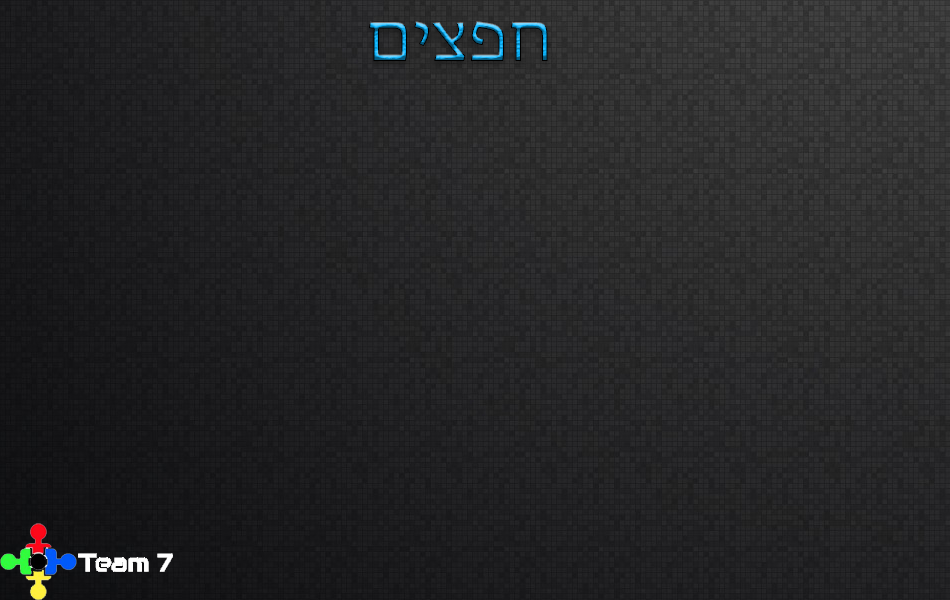
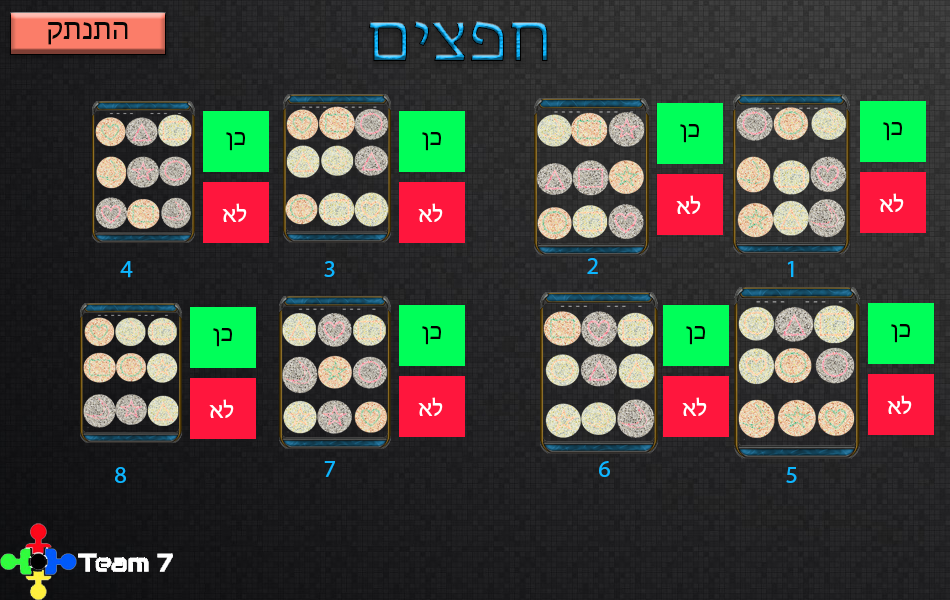
Add more gui הגדרת כל סיפורי המשתמש

diff --git a/Main.py b/Main.py
@@ -1,10 +1,12 @@
+import time
+
 import pygame
 import random
 import excelfunc
 import cardandcube
 from pygame.locals import *
 import pygame_textinput
-
+import Admin_user_edit
 # Define some colors
 BLACK = (0, 0, 0)
 WHITE = (255, 255, 255)
@@ -46,6 +48,7 @@ baduser=False
 subScreen_num = 0 #screen 3 helper
 pygame.display.set_caption("Collind")
 pos=0
+pos1=0
 cardenable=False
 cubeenable=False
 card_image=None
@@ -53,6 +56,7 @@ cube_image=None
 cubenum=0
 cardnum=0
 pauseenable=False
+usersenable =False
 # functions
 
 # Loop until the user clicks the close button.
@@ -76,6 +80,8 @@ while not done:
     badpassword_image = pygame.image.load("WorngPassword.png").convert()
     baduser_image = pygame.image.load("WorngUserName.png").convert()
     pause_image = pygame.image.load("pause.png").convert()
+    users_image = pygame.image.load("users.png").convert()
+    items_image = pygame.image.load("items.png").convert()
     screen.blit(background_image, [0, 0])
     # --- Drawing code should go here
     if screen_Num == 0: #login page
@@ -155,26 +161,130 @@ while not done:
       tempscreen = 1
       manager_image=pygame.image.load("ManagerMain.png").convert()
       screen.blit(manager_image, [0, 0])
+      if(usersenable):
+          screen.blit(users_image, [0, 0])
+          screen_Num=8
       if event.type == pygame.MOUSEBUTTONUP:
        pos = pygame.mouse.get_pos()
       if(pos):
        print(pos)
           #items
-       if((pos[0]>675 and pos[0]<855) and (pos[1]>220 and pos[1]<296) and pygame.mouse.get_pressed()[0]):
-
+       if((pos[0]>675 and pos[0]<855) and (pos[1]>220 and pos[1]<296)):
+           screen_Num=10
+           print("items")
            #users
        if ((pos[0] > 440 and pos[0] < 620) and (pos[1] > 220 and pos[1] < 296) and pygame.mouse.get_pressed()[0]):
+           usersenable=True
            #reports
        if ((pos[0] > 170 and pos[0] < 349) and (pos[1] > 220 and pos[1] < 290) and pygame.mouse.get_pressed()[0]):
-
+           subScreen_num = 7
            #startgame
        if ((pos[0] > 323 and pos[0] < 504) and (pos[1] > 350 and pos[1] < 422) and pygame.mouse.get_pressed()[0]):
            screen_Num=4
+           gameid = excelfunc.CreateGameID(userid)
+           print(gameid)
+           countans = 0
+           cardnum = 0
+           cubenum = 0
+       if ((pos[0] > 12 and pos[0] < 160) and (pos[1] > 7 and pos[1] < 42) and pygame.mouse.get_pressed()[0]):
+           screen_Num=0
+           hash=""
+           username=""
+           password=""
+       pos=False
+    elif screen_Num==8:
+          Admin_user_edit.action_list()
+          usersenable=False
+          screen_Num=tempscreen
+
+
+        #items Screen
+    elif screen_Num == 10:
+     screen.blit(items_image, [0, 0])
+     if event.type == pygame.MOUSEBUTTONUP:
+        pos = pygame.mouse.get_pos()
+        if (pos):
+         print(pos,"screen 10")
+        #1
+         if ((pos[0] > 861 and pos[0] < 923) and (pos[1] > 103 and pos[1] < 154)):
+            excelfunc.Card_enable(1)
+            print("change")
+         if ((pos[0] > 861 and pos[0] < 923) and (pos[1] > 174 and pos[1] < 228)):
+            excelfunc.Card_enable(1)
+        #2
+         if ((pos[0] > 660 and pos[0] < 718) and (pos[1] > 103 and pos[1] < 154) ):
+            excelfunc.Card_enable(2)
+         if ((pos[0] > 660 and pos[0] < 718) and (pos[1] > 174 and pos[1] < 228) ):
+            excelfunc.Card_enable(2)
+
+        #3
+         if ((pos[0] > 406 and pos[0] < 459) and (pos[1] > 103 and pos[1] < 154) ):
+            excelfunc.Card_enable(3)
+         if ((pos[0] > 406 and pos[0] < 459) and (pos[1] > 174 and pos[1] < 228) ):
+            excelfunc.Card_enable(3)
+        #4
+         if ((pos[0] > 201 and pos[0] <270) and (pos[1] > 103 and pos[1] < 154) ):
+            excelfunc.Card_enable(4)
+         if ((pos[0] > 201 and pos[0] < 270) and (pos[1] > 174 and pos[1] < 228)):
+            excelfunc.Card_enable(4)
+        #5
+         if ((pos[0] > 869 and pos[0] < 940) and (pos[1] > 306 and pos[1] < 362) ):
+            excelfunc.Card_enable(5)
+         if ((pos[0] > 869 and pos[0] < 940) and (pos[1] > 338 and pos[1] < 431) ):
+            excelfunc.Card_enable(5)
+
+        #6
+         if ((pos[0] > 667 and pos[0] < 726) and (pos[1] > 306 and pos[1] < 362) ):
+            excelfunc.Card_enable(6)
+         if ((pos[0] > 675 and pos[0] < 855) and (pos[1] > 338 and pos[1] < 431) ):
+            excelfunc.Card_enable(6)
+        #7
+         if ((pos[0] > 399 and pos[0] < 466) and (pos[1] > 306 and pos[1] < 362) ):
+            excelfunc.Card_enable(7)
+         if ((pos[0] > 403 and pos[0] < 466) and (pos[1] > 338 and pos[1] < 431) ):
+            excelfunc.Card_enable(7)
+        #8
+         if ((pos[0] > 191 and pos[0] < 255) and (pos[1] > 306 and pos[1] < 362) ):
+            excelfunc.Card_enable(8)
+         if ((pos[0] > 191 and pos[0] < 255) and (pos[1] > 338 and pos[1] < 431) ):
+            excelfunc.Card_enable(8)
+        #Exit
+         if ((pos[0] > 19 and pos[0] < 153) and (pos[1] > 38 and pos[1] < 82) ):
+            screen_Num = tempscreen
 
     elif screen_Num == 2:
       tempscreen = 2
       tester_image = pygame.image.load("TesterMain.png").convert()
       screen.blit(tester_image, [0, 0])
+      if (usersenable):
+          screen.blit(users_image, [0, 0])
+          screen_Num = 8
+      if event.type == pygame.MOUSEBUTTONUP:
+       pos = pygame.mouse.get_pos()
+      if(pos):
+       print(pos)
+          #users
+       if((pos[0]>513 and pos[0]<691) and (pos[1]>236 and pos[1]<296)):
+           usersenable = True
+           # reports
+       if ((pos[0] > 237 and pos[0] < 419) and (pos[1] > 234 and pos[1] < 292) and pygame.mouse.get_pressed()[0]):
+           subScreen_num = 7
+           # startgame
+       if ((pos[0] > 393 and pos[0] < 574) and (pos[1] > 370 and pos[1] < 439) and pygame.mouse.get_pressed()[0]):
+           screen_Num = 4
+           gameid = excelfunc.CreateGameID(userid)
+           print(gameid)
+           countans = 0
+           cardnum = 0
+           cubenum = 0
+       if ((pos[0] > 12 and pos[0] < 160) and (pos[1] > 7 and pos[1] < 42) and pygame.mouse.get_pressed()[0]):
+           screen_Num = 0
+           hash = ""
+           username = ""
+           password = ""
+       pos= False
+
+
     elif screen_Num == 3:
       tempscreen=3
       user_image = pygame.image.load("UserMain.png").convert()
@@ -197,7 +307,10 @@ while not done:
            cubenum=0
            #Exit Func
        if ((pos[0] > 12 and pos[0] < 160) and (pos[1] > 7 and pos[1] < 42) and pygame.mouse.get_pressed()[0]):
-           pygame.quit()
+           screen_Num = 0
+           hash = ""
+           username = ""
+           password = ""
       if subScreen_num==1:
          rules_image = pygame.image.load("Rules.png").convert()
          screen.blit(rules_image, [0, 0])

diff --git a/excelfunc.py b/excelfunc.py
@@ -179,12 +179,12 @@ def Card_enable(card_num): #דרישה 8.2
     workbook = openpyxl.load_workbook("gameSQL.xlsx")
     sheet = workbook.get_sheet_by_name('Cards')
     for i in range(2, sheet.max_row + 1):
-        if str(sheet['H' + str(i)].value) == card_num:
+        if sheet['A' + str(i)].value == card_num:
             if str(sheet['I' + str(i)].value) == 'yes':
-                sheet['I' + str(i)] = 'no'
+                sheet['I' + str(i)].value = 'no'
                 workbook.save("gameSQL.xlsx")
-                return False
+                return None
             if str(sheet['I' + str(i)].value) == 'no':
-                sheet['I' + str(i)] = 'yes'
+                sheet['I' + str(i)].value = 'yes'
                 workbook.save("gameSQL.xlsx")
-                return True
+                return None
